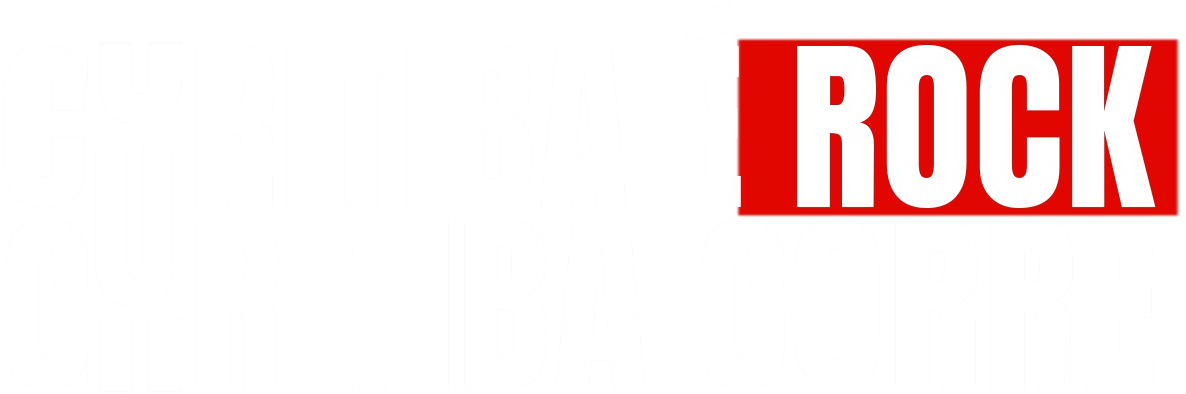
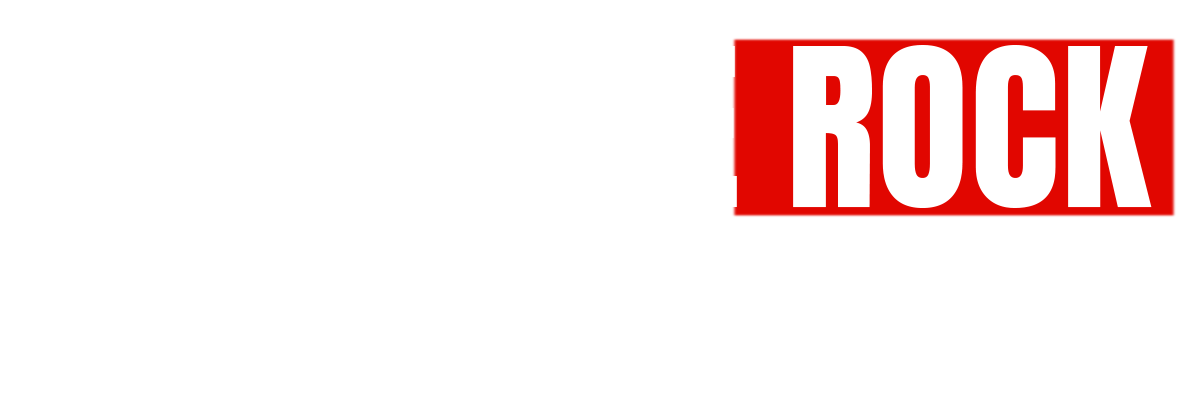
fix: troca as artes recortadas pelos PNGs originais do designer
As versões anteriores tinham sido derivadas das JPEGs por threshold de
histograma, e a qualidade ficou ruim: artefato de JPEG na borda das
letras e o vermelho de "DE CURITIBA" embaçado no tamanho do header.

Entram os PNGs com alfa de verdade. De quebra ficam bem menores:

  mmic-logo.png        57 KB -> 13 KB
  curitiba-e-rock.png  87 KB -> 28 KB

O lockup vinha com sobra transparente assimétrica no canvas (45px à
esquerda, 36px à direita, 46px abaixo), que desalinharia o bloco
centralizado e criaria espaço fantasma antes do marquee — daí o trim,
que muda as dimensões para 1177x395 em content/cta.ts. A logo já era
edge-to-edge e entrou como veio.

Saem as JPEGs, que não eram referenciadas por código e agora não servem
nem de fonte. Continuam recuperáveis em 8630992.

Claude-Session: https://claude.ai/code/session_01Ds6Sz2PrfifME7pN3h9g3F

Changed region(s): [[0.6117, 0.0914, 1.0, 0.5482], [0.6117, 0.1218, 0.6423, 0.4569], [0.7647, 0.0914, 0.7952, 0.1218]]

diff --git a/content/cta.ts b/content/cta.ts
@@ -26,8 +26,8 @@ export const finalCta = {
   closingLockup: {
     src: "/images/curitiba-e-rock.png",
     alt: closing,
-    width: 1186,
-    height: 394,
+    width: 1177,
+    height: 395,
   } satisfies Media,
 };
 
